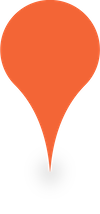
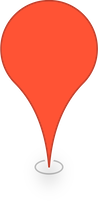
Update marker design and add all marker assets

Changed region(s): [[0.0, 0.0, 1.0, 0.8411], [0.1837, 0.028, 0.2755, 0.0561], [0.1224, 0.0561, 0.1837, 0.0841]]

diff --git a/app/src/screens/MapScreen.tsx b/app/src/screens/MapScreen.tsx
@@ -12,6 +12,8 @@ import { MaterialCommunityIcons } from '@expo/vector-icons';
 
 const TILESET_URL = 'http://c.tile.openstreetmap.org/{z}/{x}/{y}.png';
 const MARKER_HIGH = require('../../assets/markerHigh.png');
+const MARKER_MEDIUM = require('../../assets/markerMedium.png');
+const MARKER_LOW = require('../../assets/markerLow.png');
 const MARKER_OFFSET = { x: 0, y: -30 };
 const ANCHOR = {x: 0.5, y: 0.8 }
 
@@ -100,7 +102,7 @@ export default class MapScreen extends React.Component<Props, State> {
         }}
         zIndex={i}
         title={p.name}
-        image={MARKER_HIGH}
+        image={MARKER_HIGH || MARKER_LOW }
         centerOffset={MARKER_OFFSET}
         anchor={ANCHOR}
         onPress={() => this.showPlacePanel(p)}
